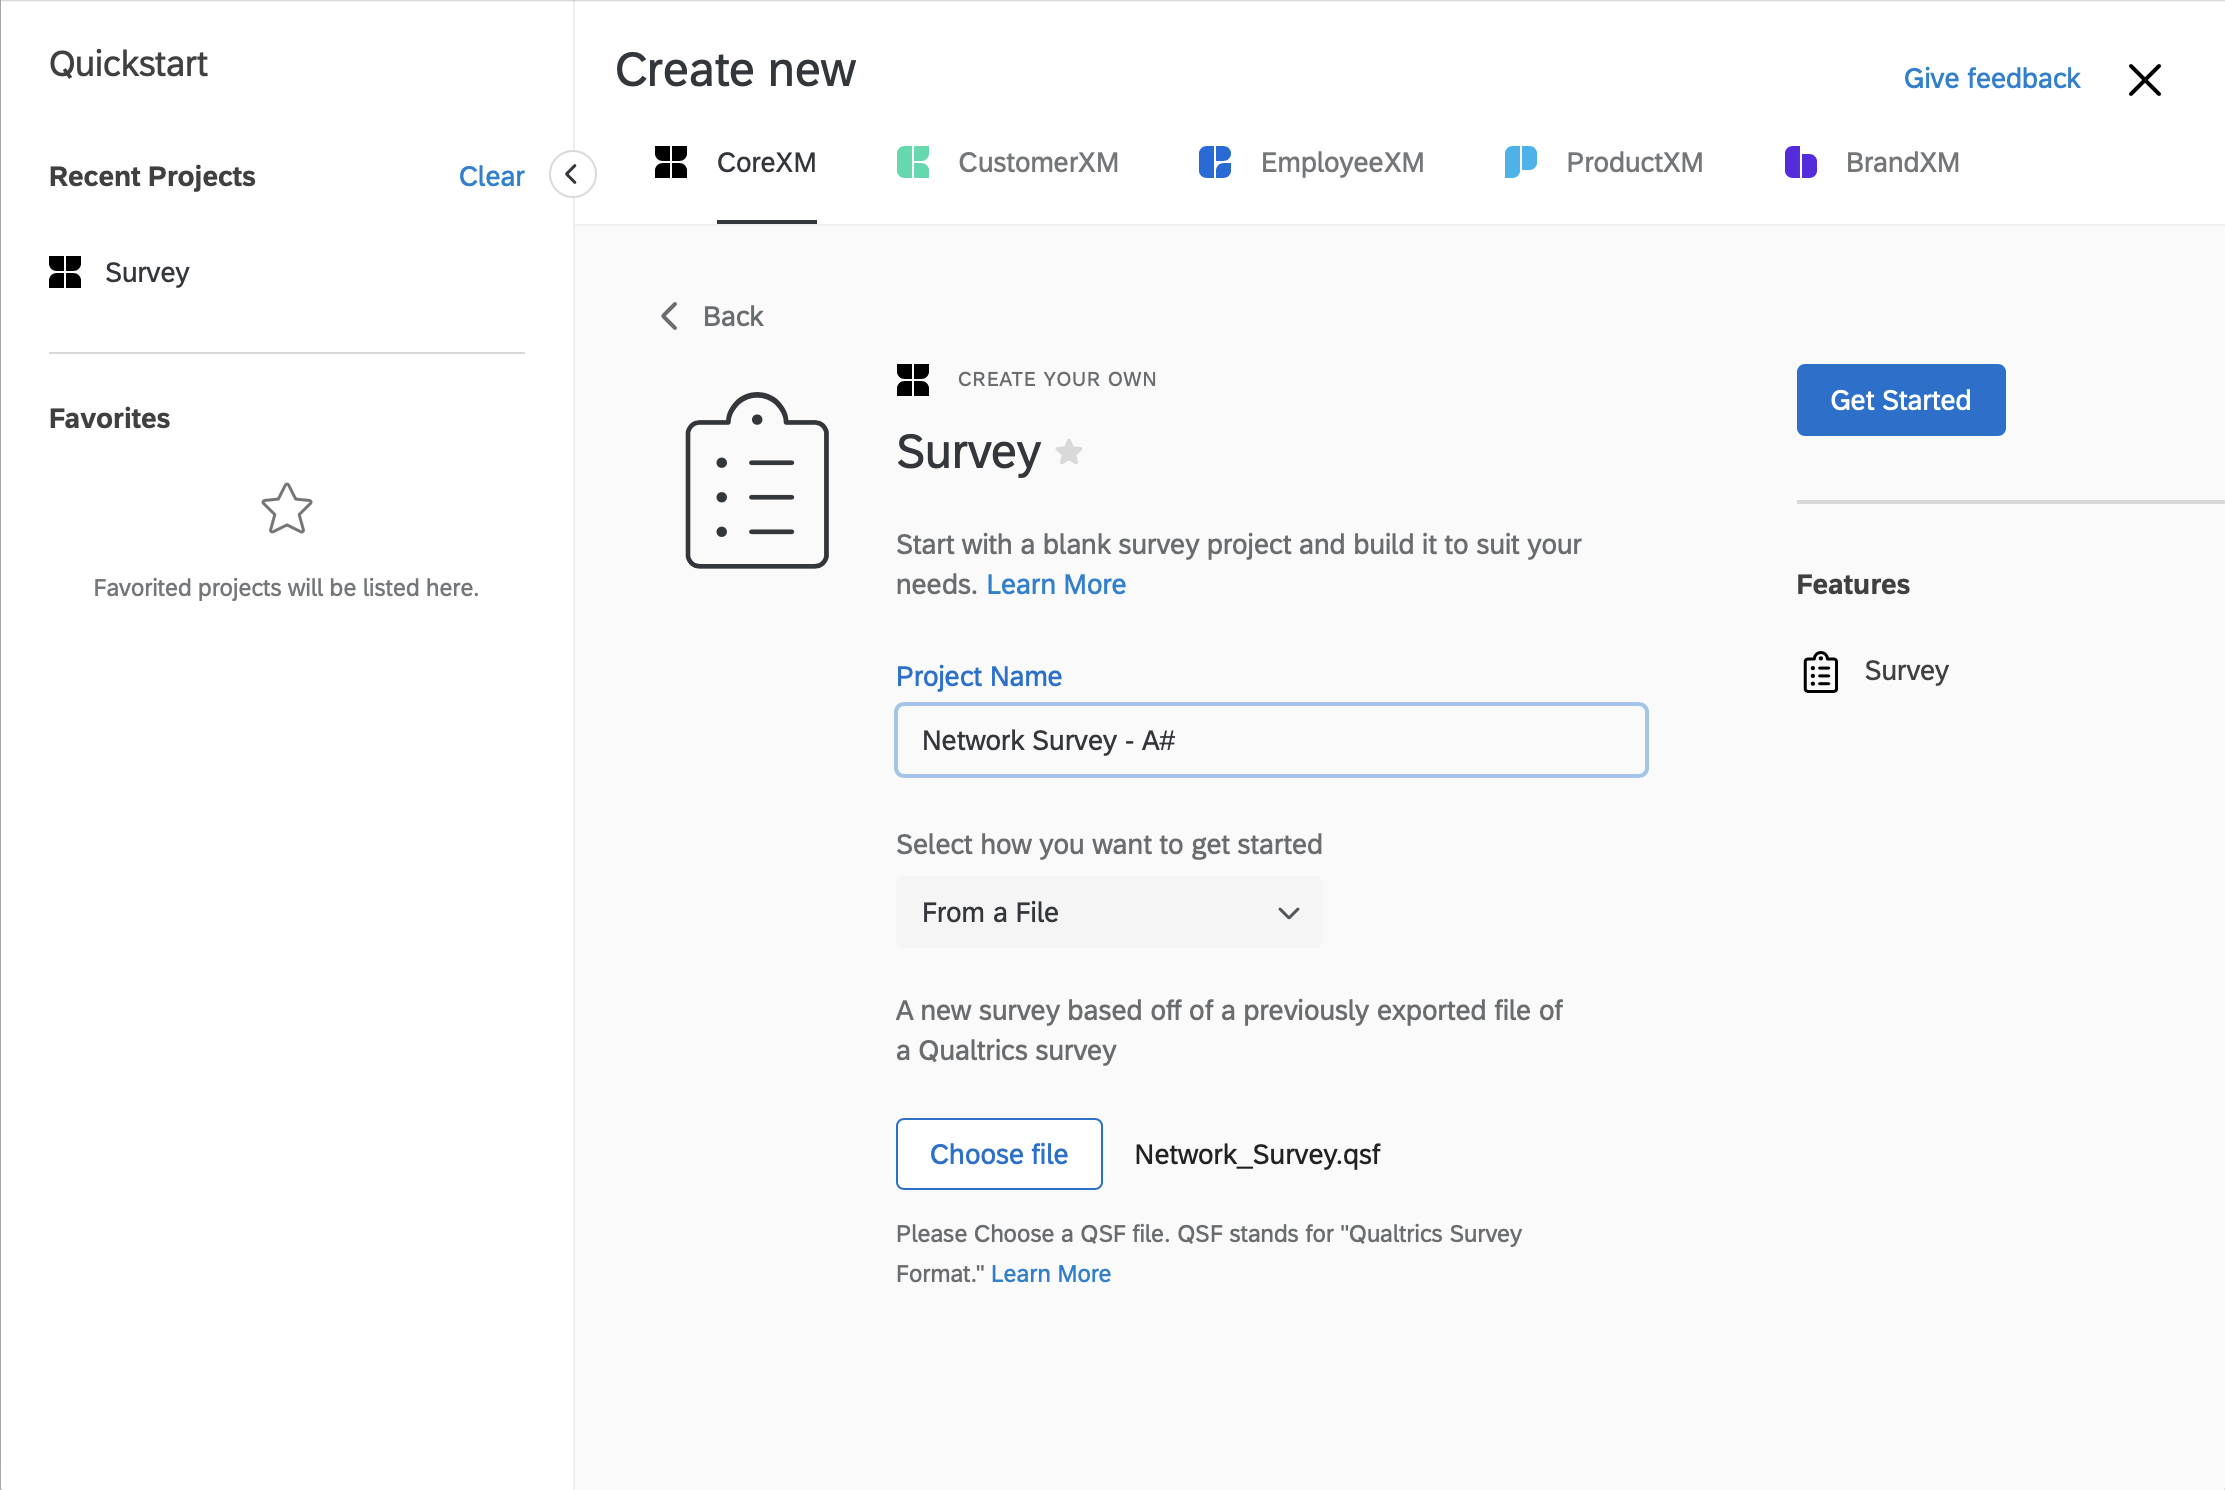
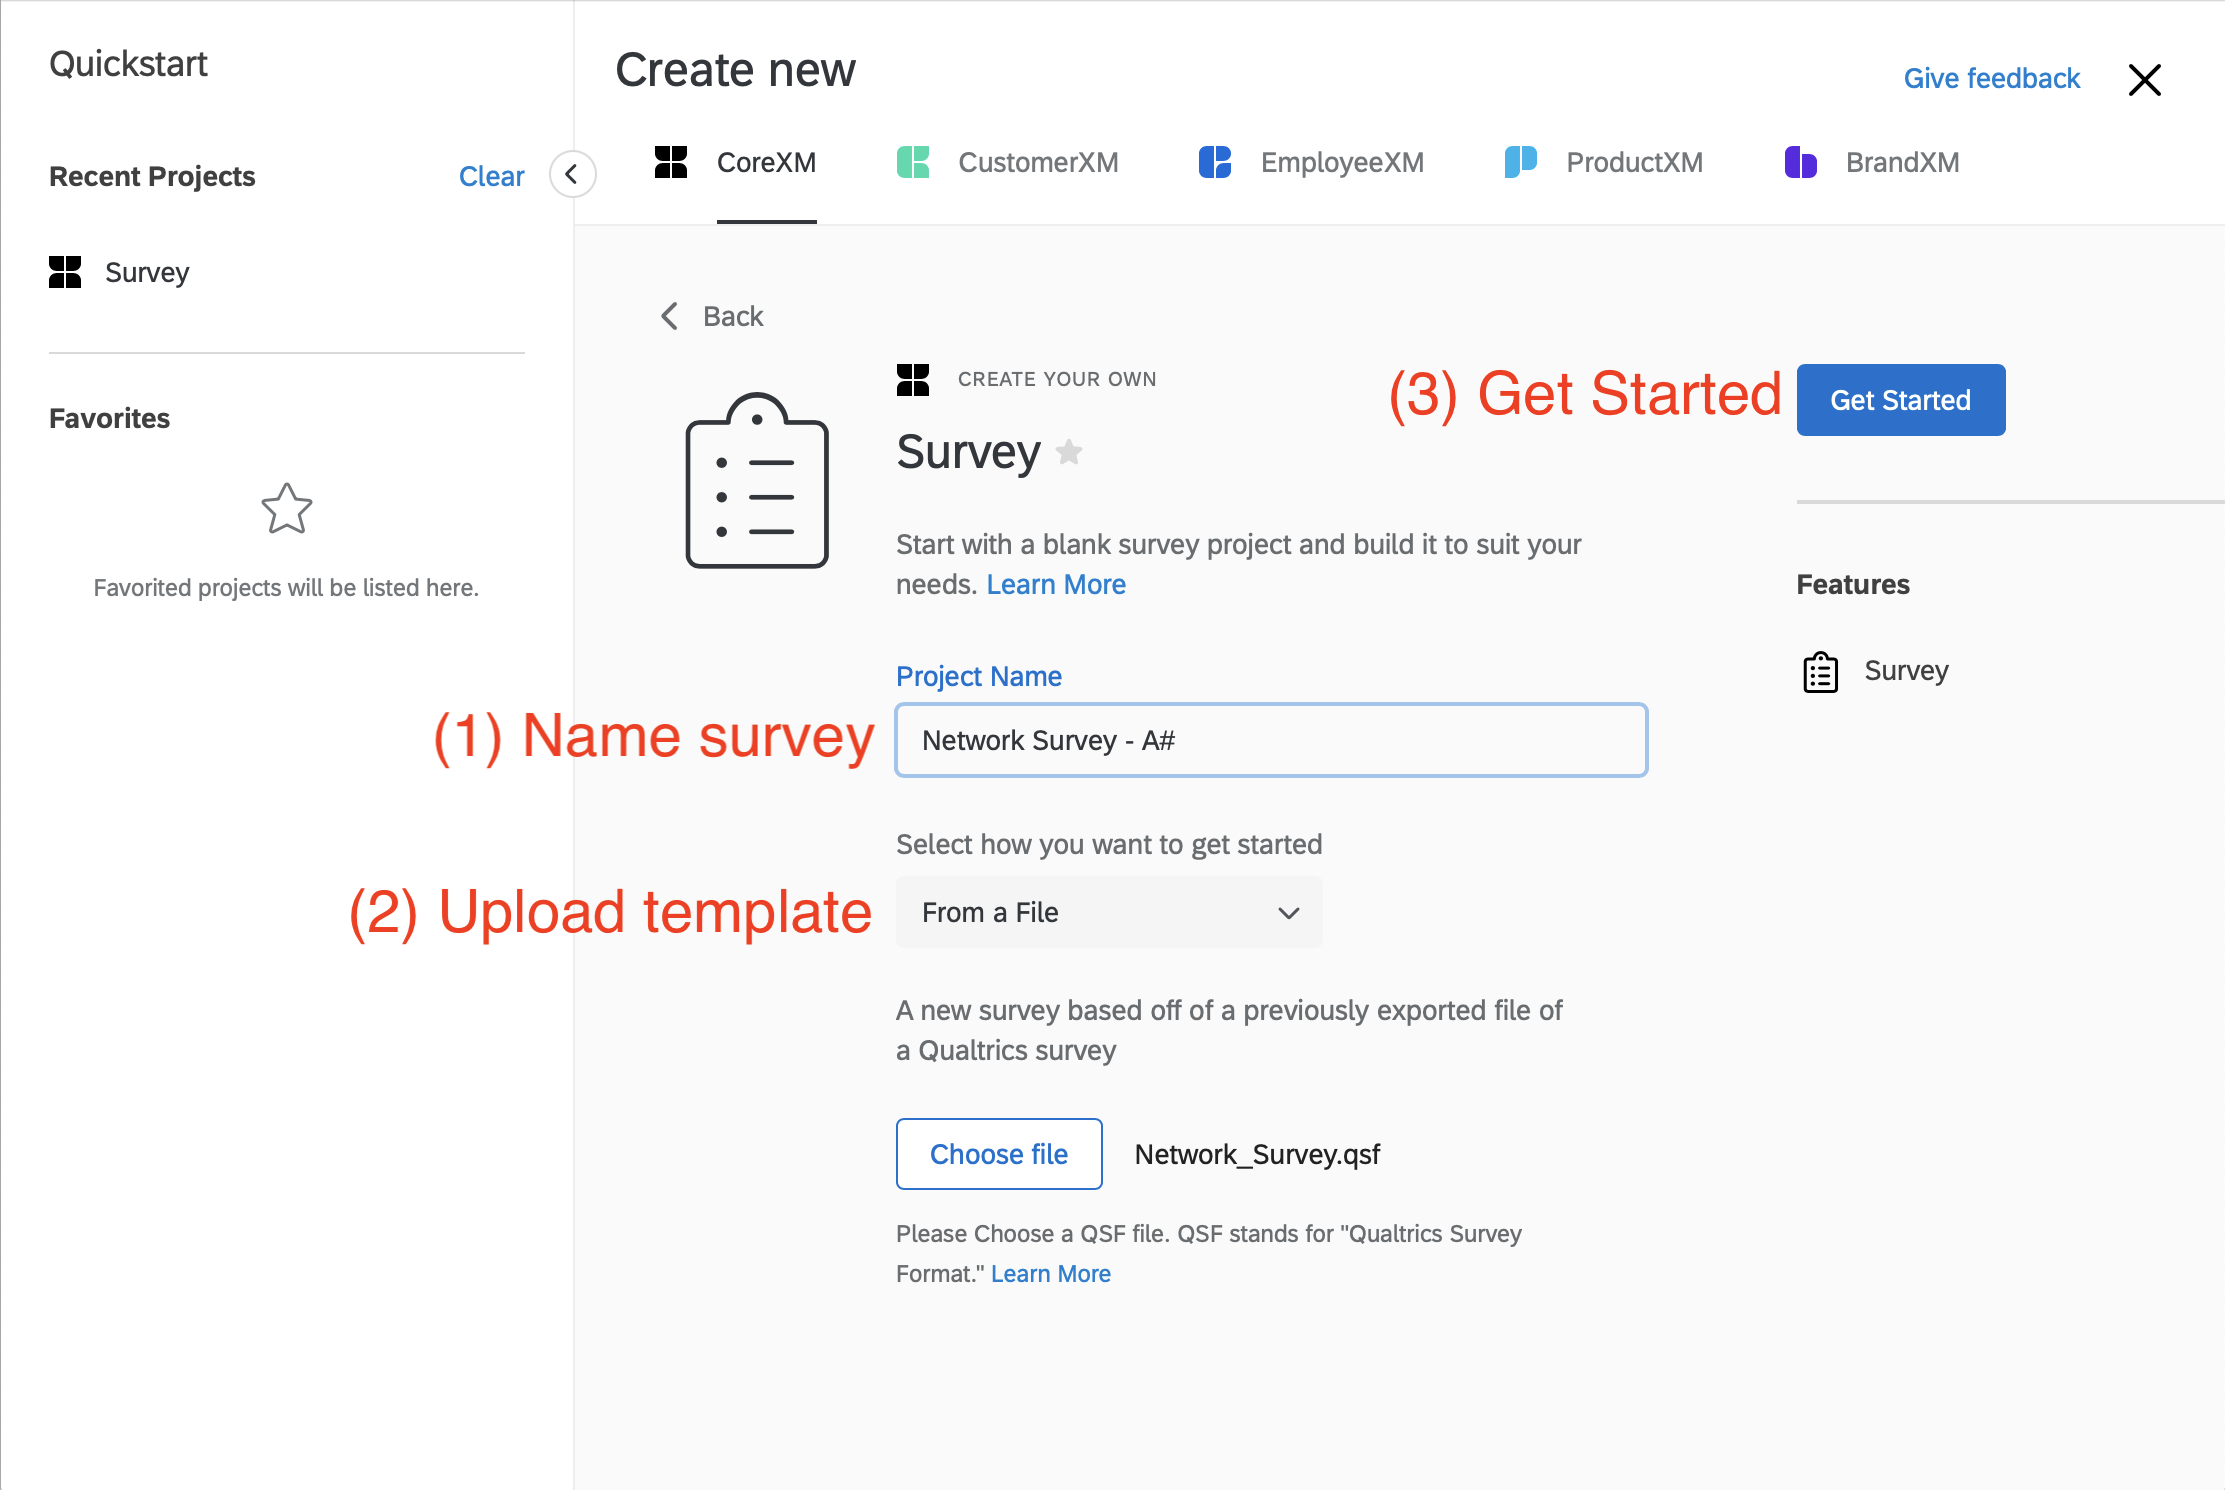
clearer readme?

Changed region(s): [[0.1861, 0.4631, 0.4031, 0.5248], [0.1551, 0.5866, 0.4031, 0.6483], [0.6202, 0.247, 0.8063, 0.2779]]

diff --git a/README.md b/README.md
@@ -58,8 +58,8 @@ Verify that the preview contains the `NodeID`, `Email`, and `FullName` fields.
 In your Qualtrics account, use the survey template (`survey/Network_Survey.qsf`)
 to create a new survey (Projects > Create New Project > Survey > From File).
 
-Upload the survey template file, then rename the survey to something meaningful
-(e.g. "Network Survey - Section A#"). Finally, click "Get Started" to create the
+Rename the survey to something meaningful (e.g. "Network Survey - Section A#"),
+then upload the survey template file. Finally, click "Get Started" to create the
 survey.
 
 ![](./guide/qs002.png)
